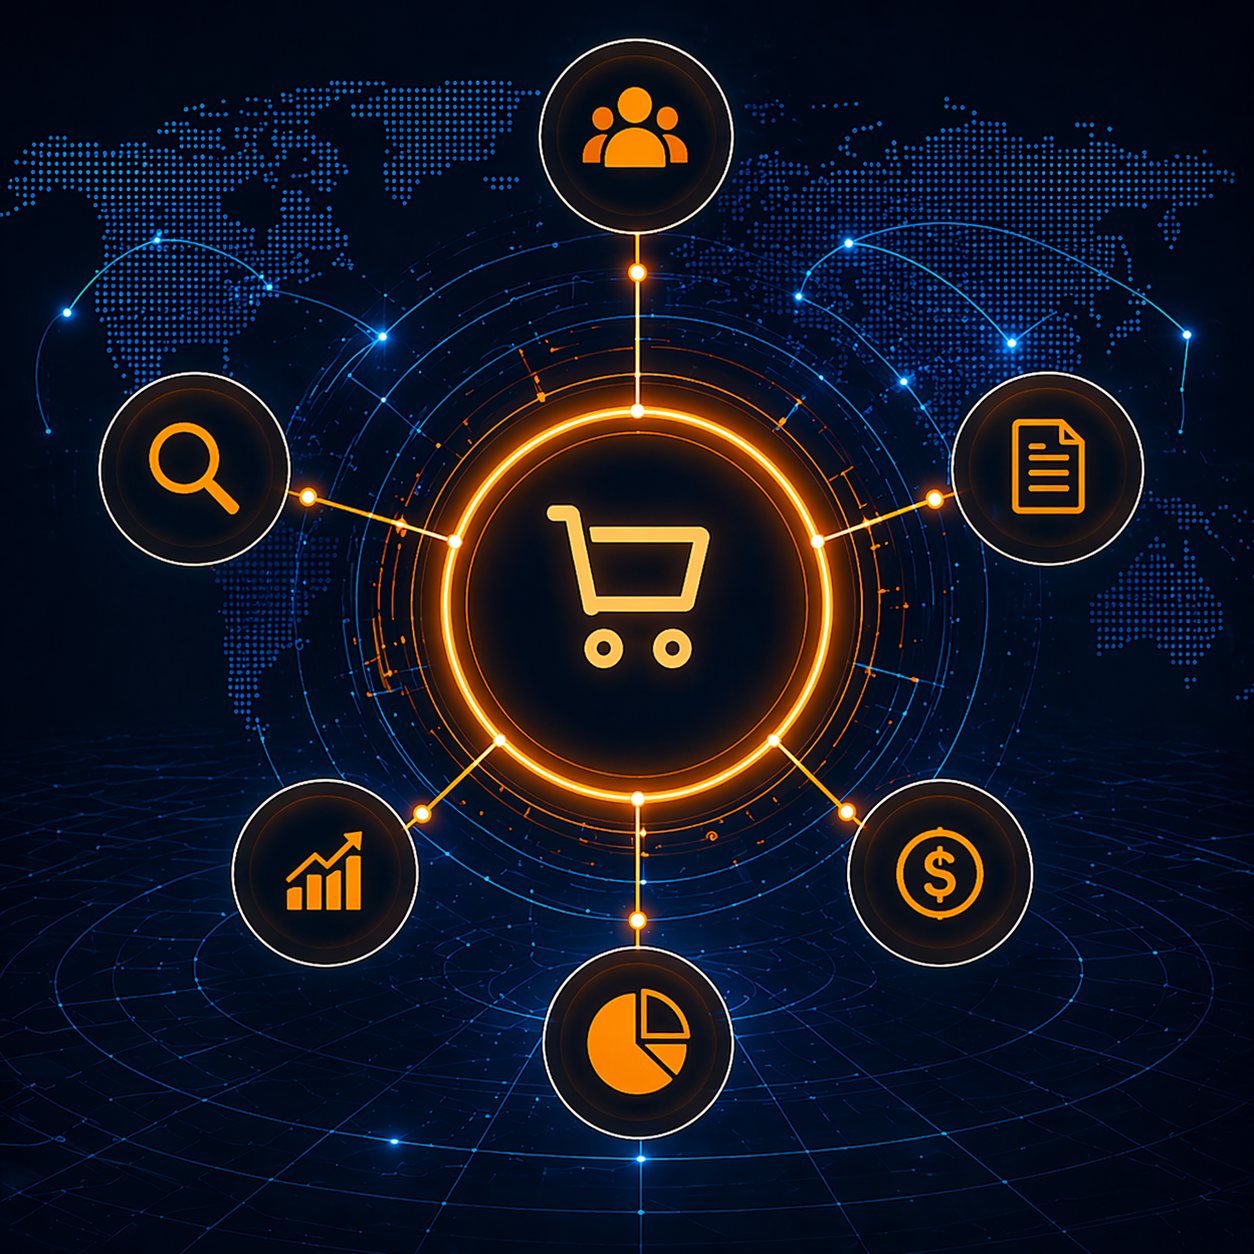
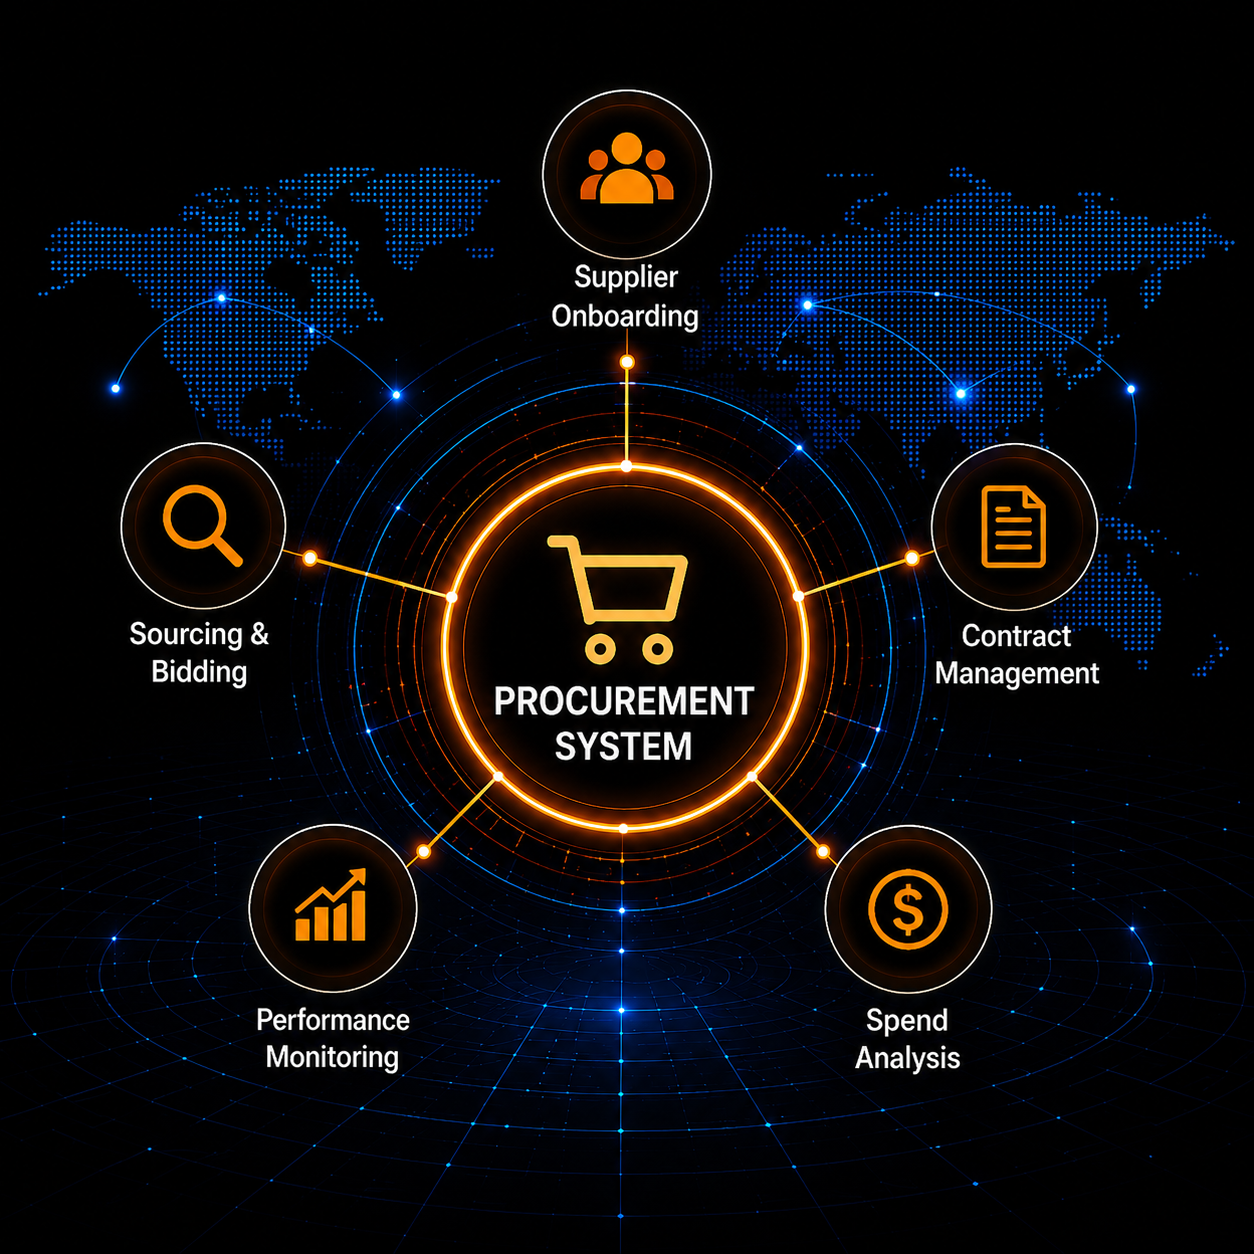
Match procurement hero image box

diff --git a/src/pages/solutions/ProcurementServicesPage.css b/src/pages/solutions/ProcurementServicesPage.css
@@ -62,8 +62,6 @@
 
 .proc-hero-image img {
   width: 100%;
-  height: 350px;
-  object-fit: cover;
   border-radius: 12px;
   border: 0;
   box-shadow: none;
@@ -183,7 +181,4 @@
     font-size: 40px;
   }
 
-  .proc-hero-image img {
-    height: 280px;
-  }
 }